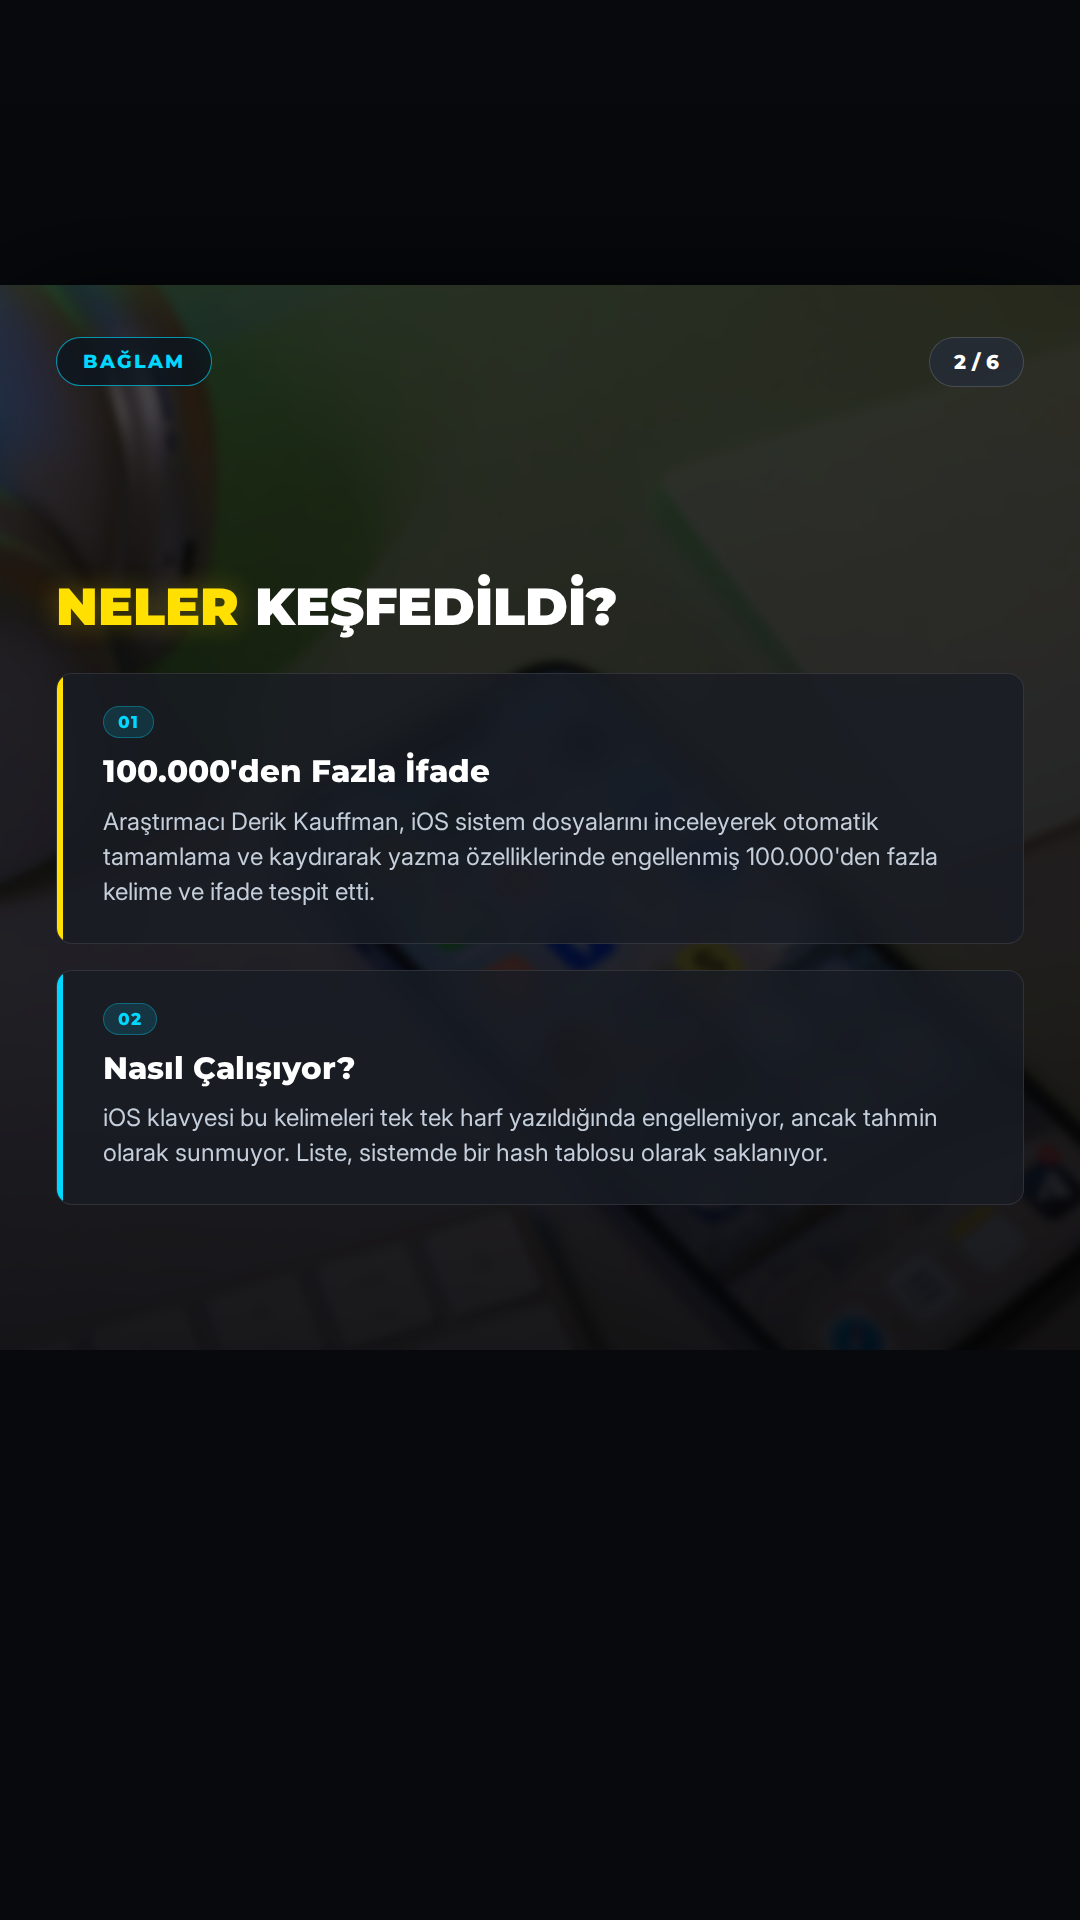
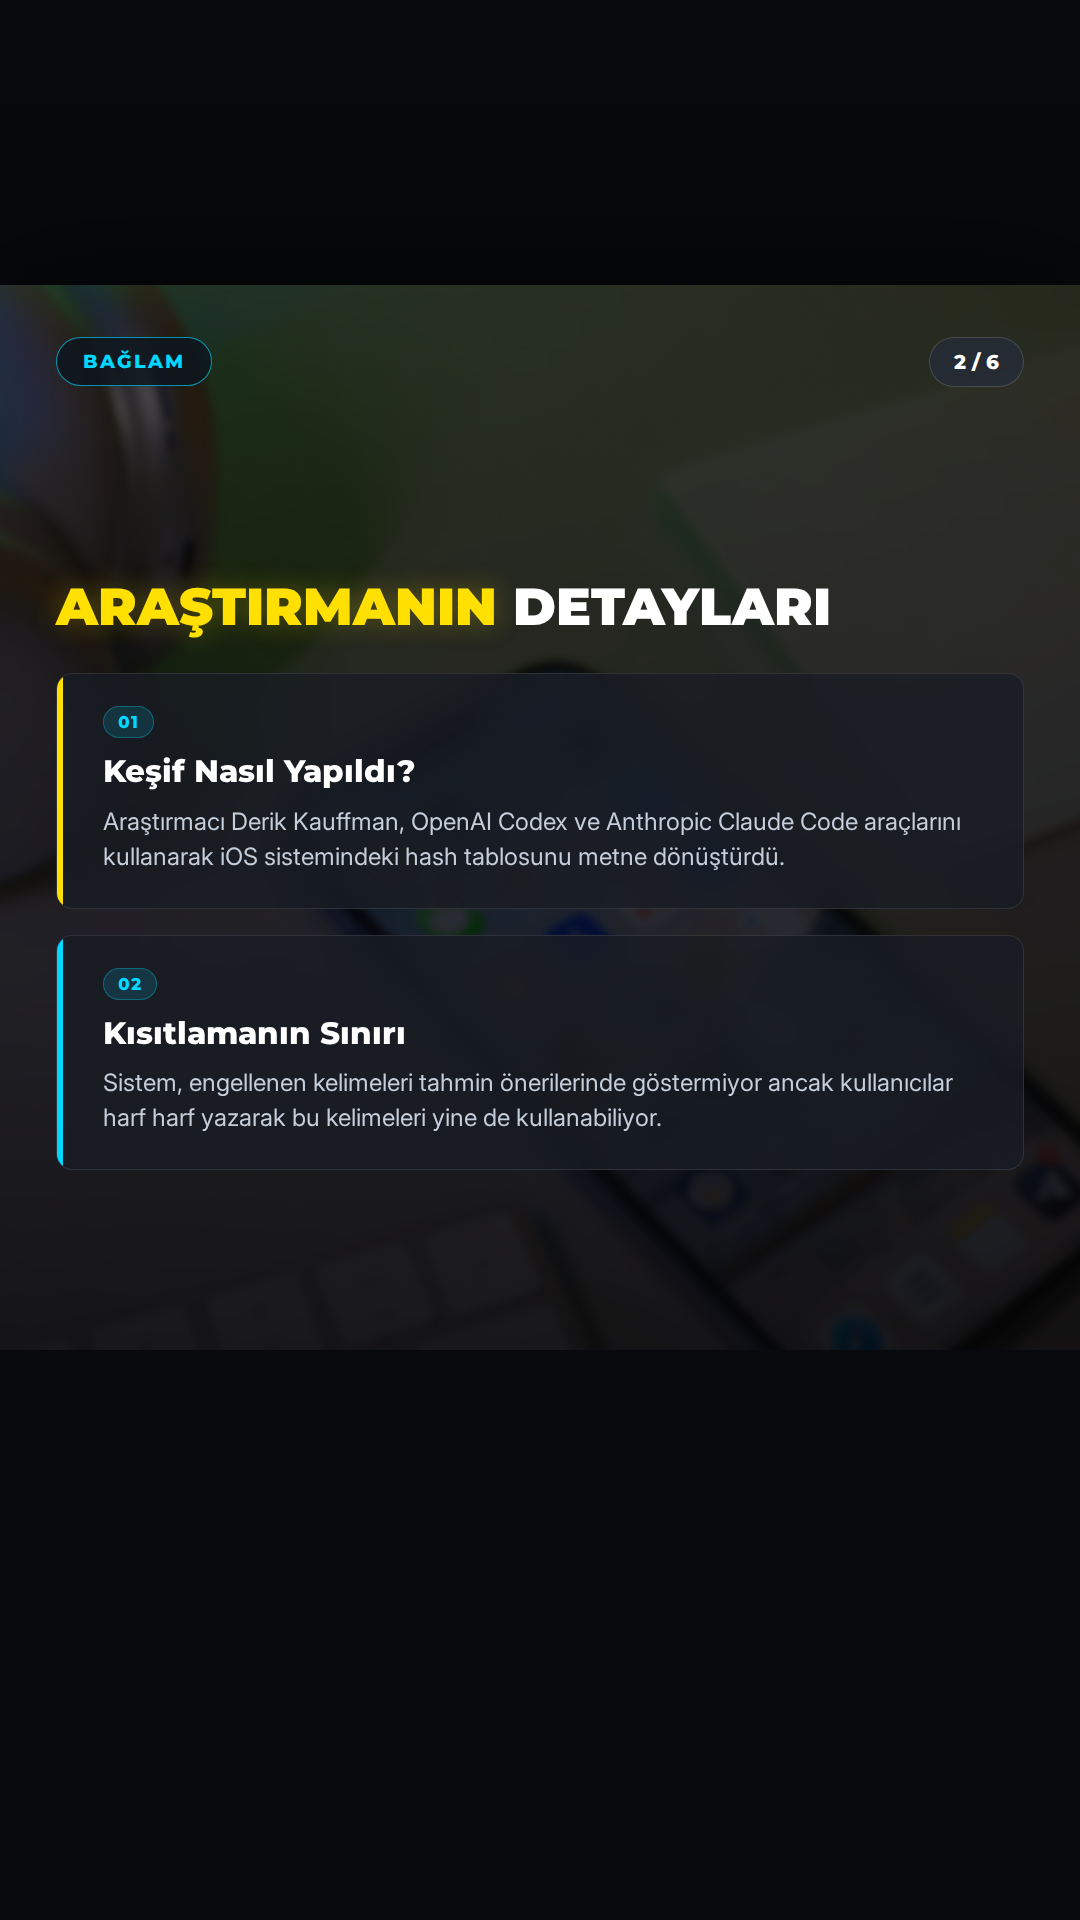
🤖 post: 2026-11-06 12:00 – Apple has a secret list of banned autocomplete phrases inclu

diff --git a/output/2026-11-06/02-1200-apple-has-a-secret-list-of-banned-autocomplete-p/verification.md b/output/2026-11-06/02-1200-apple-has-a-secret-list-of-banned-autocomplete-p/verification.md
@@ -3,60 +3,60 @@
 **Haber:** Apple has a secret list of banned autocomplete phrases including ‘dictator Trump’ and ‘covid is a hoax’
 **Canonical URL:** https://www.theverge.com/tech/1028663/apple-ios-keyboard-blocked-words-autocomplete
 **Kaynaklar:** The Verge, Wired, TechCrunch, Engadget
-**Kontrol zamanı:** 2026-11-06T18:13:46+03:00
+**Kontrol zamanı:** 2026-11-06T18:23:06+03:00
 **Sonuç:** ✅ YAYINLANABİLİR
 
 ---
 
 ## İddia Bazlı Sonuçlar
 
-### 1. Araştırmacı Derik Kauffman, iOS'te otomatik tamamlama ve kaydırarak yazma özelliklerinde engellenmiş 100.000'den fazla kelime ve ifade buldu.
+### 1. Araştırmacı Derik Kauffman, iOS'ta otomatik tamamlama ve kaydırarak yazma özelliklerinde engellenmiş 100.000'den fazla kelime ve ifade buldu.
 - **Karar:** ✅ `supported`
 - **Kanıtlar:**
   - [https://www.theverge.com/tech/1028663/apple-ios-keyboard-blocked-words-autocomplete](https://www.theverge.com/tech/1028663/apple-ios-keyboard-blocked-words-autocomplete)
     > A researcher found over 100,000 words and phrases in “every major language” that are blocked from autocomplete and swipe-type in iOS, Reuters reports. The researcher, Derik Kauffman
 
-### 2. iOS klavyesi, engellenen kelimeleri tek tek harf yazıldığında engellememekte ancak tahmin olarak sunmamaktadır.
+### 2. iOS klavyesi, engellenen kelimeleri tek tek harf yazarak yazmaya izin verirken, tahmin metni önerilerinde göstermiyor.
 - **Karar:** ✅ `supported`
 - **Kanıtlar:**
   - [https://www.theverge.com/tech/1028663/apple-ios-keyboard-blocked-words-autocomplete](https://www.theverge.com/tech/1028663/apple-ios-keyboard-blocked-words-autocomplete)
     > The researcher, Derik Kauffman, says you can still type the words on the blocklist one letter at a time. But they won’t pop up as predictive text suggestions
 
-### 3. iOS klavyesinin engellediği ifadeler arasında 'dictator Trump', 'covid is a hoax', 'illegal immigrant', 'sleepy Joe' ve 'left wing conspiracy' gibi siyasi içerikli ifadeler yer almaktadır.
+### 3. iOS klavyesinin engellediği ifadeler arasında 'dictator Trump', 'covid is a hoax', 'illegal immigrant', 'sleepy Joe' ve 'left wing conspiracy' gibi siyasi içerikli ifadeler yer alıyor.
 - **Karar:** ✅ `supported`
 - **Kanıtlar:**
   - [https://www.theverge.com/tech/1028663/apple-ios-keyboard-blocked-words-autocomplete](https://www.theverge.com/tech/1028663/apple-ios-keyboard-blocked-words-autocomplete)
     > But it also contains political phrases like “illegal immigrant,” “dictator Trump,” “sleepy Joe,” “covid was a hoax,” and “left wing conspiracy”
 
-### 4. Derik Kauffman, engellenen kelime listesini OpenAI'ın Codex ve Anthropic'in Claude Code araçlarını kullanarak iOS sistem dosyaları içerisinden çıkardı.
+### 4. Derik Kauffman, engellenen kelime listesini ve farklı dillere ait alt listeleri internette yayınladı.
+- **Karar:** ✅ `supported`
+- **Kanıtlar:**
+  - [https://www.theverge.com/tech/1028663/apple-ios-keyboard-blocked-words-autocomplete](https://www.theverge.com/tech/1028663/apple-ios-keyboard-blocked-words-autocomplete)
+    > Kauffman posted the full list online, including the individual lists for different languages.
+
+### 5. Derik Kauffman, engellenen kelime listesini bulmak için OpenAI'ın Codex ve Anthropic'in Claude Code araçlarını kullandı.
 - **Karar:** ✅ `supported`
 - **Kanıtlar:**
   - [https://www.theverge.com/tech/1028663/apple-ios-keyboard-blocked-words-autocomplete](https://www.theverge.com/tech/1028663/apple-ios-keyboard-blocked-words-autocomplete)
     > According to Reuters, Kauffman used OpenAI’s Codex and Anthropic’s Claude Code to help find the list “deep in the bowels” of iOS.
 
-### 5. Engellenen kelime listesi iOS içerisinde bir hash tablosu olarak saklanmaktadır.
+### 6. Kauffman, engellenen kelime listesinin iOS içerisinde bir hash tablosu olarak saklandığını ve bunu metne dönüştürdüğünü belirtti.
 - **Karar:** ✅ `supported`
 - **Kanıtlar:**
   - [https://www.theverge.com/tech/1028663/apple-ios-keyboard-blocked-words-autocomplete](https://www.theverge.com/tech/1028663/apple-ios-keyboard-blocked-words-autocomplete)
     > On his website, Kauffman says the phrase list was stored as a hash table, which he was able to convert back to text.
 
-### 6. Başka bir araştırmacı, Reuters'a verdiği demeçte aynı listeye bağımsız olarak ulaştığını doğruladı.
+### 7. Apple, klavyesinin potansiyel olarak uygunsuz veya saldırgan önerilerden kaçınmak için tasarlandığını ancak kullanıcıların istediklerini yazabildiklerini açıkladı.
+- **Karar:** ✅ `supported`
+- **Kanıtlar:**
+  - [https://www.theverge.com/tech/1028663/apple-ios-keyboard-blocked-words-autocomplete](https://www.theverge.com/tech/1028663/apple-ios-keyboard-blocked-words-autocomplete)
+    > Apple told Reuters that its keyboard is designed to avoid potentially inappropriate or offensive suggestions, but iPhone users can still type in what they want, or override predictive text suggestions.
+
+### 8. Başka bir araştırmacı, Reuters'a verdiği demeçte aynı engellenen kelime listesine bağımsız olarak ulaştığını doğruladı.
 - **Karar:** ✅ `supported`
 - **Kanıtlar:**
   - [https://www.theverge.com/tech/1028663/apple-ios-keyboard-blocked-words-autocomplete](https://www.theverge.com/tech/1028663/apple-ios-keyboard-blocked-words-autocomplete)
     > Another researcher told Reuters they were able to independently obtain the same list.
-
-### 7. Apple, klavyesinin potansiyel olarak uygunsuz veya saldırgan önerilerden kaçınmak için tasarlandığını belirtti.
-- **Karar:** ✅ `supported`
-- **Kanıtlar:**
-  - [https://www.theverge.com/tech/1028663/apple-ios-keyboard-blocked-words-autocomplete](https://www.theverge.com/tech/1028663/apple-ios-keyboard-blocked-words-autocomplete)
-    > Apple told Reuters that its keyboard is designed to avoid potentially inappropriate or offensive suggestions
-
-### 8. iOS klavyesi 'bad girl' ifadesini engellerken 'bad boy' ifadesini engellememektedir.
-- **Karar:** ✅ `supported`
-- **Kanıtlar:**
-  - [https://www.theverge.com/tech/1028663/apple-ios-keyboard-blocked-words-autocomplete](https://www.theverge.com/tech/1028663/apple-ios-keyboard-blocked-words-autocomplete)
-    > Kauffman found some discrepancies on the list, too, where one phrase is blocked while its counterpart isn’t, such as blocking “bad girl” but not “bad boy.”
 
 ---
 
@@ -64,14 +64,14 @@
 
 | İddia | 1. Tur | 2. Tur | Nihai |
 |-------|--------|--------|-------|
-| Araştırmacı Derik Kauffman, iOS'te otomatik tamamlama ve kay | supported | supported | supported |
-| iOS klavyesi, engellenen kelimeleri tek tek harf yazıldığınd | supported | supported | supported |
+| Araştırmacı Derik Kauffman, iOS'ta otomatik tamamlama ve kay | supported | supported | supported |
+| iOS klavyesi, engellenen kelimeleri tek tek harf yazarak yaz | supported | supported | supported |
 | iOS klavyesinin engellediği ifadeler arasında 'dictator Trum | supported | supported | supported |
-| Derik Kauffman, engellenen kelime listesini OpenAI'ın Codex  | supported | supported | supported |
-| Engellenen kelime listesi iOS içerisinde bir hash tablosu ol | supported | supported | supported |
-| Başka bir araştırmacı, Reuters'a verdiği demeçte aynı listey | supported | supported | supported |
+| Derik Kauffman, engellenen kelime listesini ve farklı diller | supported | supported | supported |
+| Derik Kauffman, engellenen kelime listesini bulmak için Open | supported | supported | supported |
+| Kauffman, engellenen kelime listesinin iOS içerisinde bir ha | supported | supported | supported |
 | Apple, klavyesinin potansiyel olarak uygunsuz veya saldırgan | supported | supported | supported |
-| iOS klavyesi 'bad girl' ifadesini engellerken 'bad boy' ifad | supported | supported | supported |
+| Başka bir araştırmacı, Reuters'a verdiği demeçte aynı engell | supported | supported | supported |
 
 ## Kaynak Metinleri
 

diff --git a/output/2026-11-06/02-1200-apple-has-a-secret-list-of-banned-autocomplete-p/captions.md b/output/2026-11-06/02-1200-apple-has-a-secret-list-of-banned-autocomplete-p/captions.md
@@ -2,37 +2,37 @@
 
 ## INSTAGRAM
 
-iOS klavyenizde bazı kelimeleri yazarken tahminlerde çıkmadığını hiç fark ettiniz mi? 📱 Apple'ın klavye tahmin mekanizmasında 100.000'den fazla kelime ve ifadenin gizlice engellendiği ortaya çıktı!
+iOS klavyenizde bazı kelimelerin neden otomatik tamamlanmadığını hiç merak ettiniz mi? 📱
 
-Araştırmacı Derik Kauffman, sistem dosyalarını inceleyerek Apple'ın otomatik tamamlama ve kaydırma özelliklerinde filtrelediği bu devasa listeye ulaştı. Listede siyasi ifadelerden bazı günlük kalıplara kadar pek çok içerik yer alıyor.
+Araştırmacı Derik Kauffman, Apple'ın iOS klavyesinde 100.000'den fazla kelime ve ifadenin otomatik tamamlama sisteminden gizlice engellendiğini ortaya çıkardı. Bu liste, siyasi ifadelerden tartışmalı terimlere kadar geniş bir yelpazeyi kapsıyor.
 
-İşin ilginç yanı, sistemin bazı ifadelerde tutarsız olması. Örneğin, 'bad girl' engellenirken 'bad boy' önerilebiliyor. Apple ise bu durumun uygunsuz içerikleri engellemek için tasarlandığını belirtiyor.
+Sistem, bu kelimeleri tamamen yasaklamıyor; yani harf harf yazarak kullanabiliyorsunuz. Ancak tahmin algoritmaları, bu ifadeleri 'uygunsuz' bularak öneri listesinden çıkarıyor.
 
-Sizce klavye tahminlerinde bu tarz bir filtreleme gerekli mi, yoksa ifade özgürlüğünü kısıtlıyor mu? Yorumlarda buluşalım.
+Bu durum, yazılımın tarafsızlığı ve şeffaflığı konusunda yeni bir tartışma başlattı. Sizce klavye tahminleri kullanıcıyı yönlendirmeli mi, yoksa tamamen tarafsız mı kalmalı?
 
 Kaynak: The Verge, Wired
 
-#Apple #iOS #Gizlilik #TeknolojiHaberleri #Güvenlik #iPhone #DijitalOkuryazarlık #Privacy #TechNews #AppleKeyboard
+#Apple #iOS #Teknoloji #Gizlilik #Güvenlik #Yazılım #iPhone #TechNews #Privacy #CyberSecurity #TeknoPusula
 
 ## TIKTOK
 
-iPhone klavyenizde bazı kelimeler neden çıkmıyor? 📱 Apple'ın gizli engellenenler listesi ortaya çıktı! 100.000'den fazla kelime ve ifade tahminlerden çıkarılmış. Siyasi içeriklerden günlük ifadelere kadar geniş bir liste var. Sizce bu bir güvenlik önlemi mi yoksa sansür mü? Yorumlara yazın! Kaynak: The Verge, Wired
+iPhone klavyenizde bazı kelimeler neden çıkmıyor? 🧐 Apple'ın otomatik tamamlama sisteminde 100.000'den fazla kelimenin gizlice engellendiği ortaya çıktı! Siyasi ifadelerden tartışmalı başlıklara kadar sistem bunları 'uygunsuz' bulup öneri dışı bırakıyor. Yazabiliyorsunuz ama sistem size önermiyor. Sizce bu bir sansür mü yoksa güvenlik önlemi mi? Yorumlarda buluşalım! Kaynak: The Verge, Wired
 
-#Apple #iOS #iPhoneHileleri #Teknoloji #Gizlilik #TechTok
+#Apple #iPhone #iOS #Teknoloji #Gizlilik #TechTok
 
 ## X
 
-iPhone klavyenizde bazı kelimelerin tahminlerde çıkmadığını fark ettiniz mi? Apple'ın 100.000'den fazla kelimeyi filtrelediği ortaya çıktı. Siyasi ifadelerden tutarsız filtrelemelere kadar detaylar şaşırtıcı. Sizce bu gerekli mi? Kaynak: The Verge, Wired
+iOS klavyesinde 100.000'den fazla kelime gizlice engellenmiş! Apple'ın otomatik tamamlama sistemi, siyasi ve tartışmalı ifadeleri öneri listesinden çıkarıyor. Yazılımın tarafsızlığı tartışma konusu. Sizce klavye tahminleri tarafsız mı olmalı? Kaynak: The Verge, Wired
 
 #Apple #iOS
 
 ## THREADS
 
-iOS Klavyesinde Gizli Filtreler 📱
+iOS Klavyesinde Gizli 'Engelli' Kelimeler ⌨
 
-Apple'ın klavye tahminlerinde 100.000'den fazla kelimeyi engellediği ortaya çıktı. Siyasi ifadelerden günlük kalıplara kadar uzanan bu liste, sistemde bir hash tablosu olarak saklanıyor.
+Apple'ın otomatik tamamlama sisteminde 100.000'den fazla kelimenin gizlice kısıtlandığı ortaya çıktı. Sistem, siyasi ifadeler dahil birçok kelimeyi tahmin önerilerinde göstermiyor.
 
-Sistemin 'bad girl'ü engelleyip 'bad boy'u serbest bırakması gibi tutarsızlıklar ise tartışma konusu. Sizce bu bir güvenlik önlemi mi, yoksa ifade özgürlüğüne müdahale mi? 💭
+Bu durum, yazılımın tarafsızlığı konusunda soru işaretleri yaratıyor. Sizce klavye tahminleri kullanıcıyı yönlendirmeli mi, yoksa tamamen tarafsız mı kalmalı? 💭
 
 Kaynak: The Verge, Wired
 
@@ -40,23 +40,23 @@ Kaynak: The Verge, Wired
 
 ## LINKEDIN
 
-Teknoloji dünyasında veri gizliliği ve içerik yönetimi tartışmaları yeni bir boyut kazandı. Yapılan araştırmalar, Apple'ın iOS klavye tahmin mekanizmasında 100.000'den fazla kelime ve ifadeyi filtrelediğini ortaya koyuyor.
+Yazılım etiği ve kullanıcı deneyimi arasındaki ince çizgi: Apple'ın iOS klavye algoritması üzerine yeni bir tartışma.
 
-Sistem dosyaları üzerinde yapılan incelemeler, bu filtrelemenin sadece uygunsuz içerikleri değil, belirli siyasi ifadeleri de kapsadığını gösteriyor. Özellikle 'bad girl' ve 'bad boy' örneklerinde olduğu gibi, filtreleme mantığındaki tutarsızlıklar, algoritmik tarafsızlık konusunu tekrar gündeme taşıyor.
+Araştırmacı Derik Kauffman tarafından yapılan analiz, iOS klavyesinde 100.000'den fazla kelime ve ifadenin otomatik tamamlama sisteminden gizlice kısıtlandığını ortaya koydu. 'Uygunsuz' veya 'saldırgan' içeriklerden kaçınmak amacıyla uygulanan bu filtreleme, siyasi ifadeleri de kapsıyor.
 
-Apple, bu mekanizmanın kullanıcıyı saldırgan önerilerden korumak için tasarlandığını belirtse de, bu durum 'algoritmik sansür' tartışmalarını beraberinde getiriyor. Sizce teknoloji şirketleri, kullanıcı deneyimi ile ifade özgürlüğü arasındaki dengeyi nasıl kurmalı?
+Bu durum, teknoloji şirketlerinin algoritmik tarafsızlık ve şeffaflık sorumluluklarını bir kez daha gündeme getiriyor. Kullanıcı deneyimini korumak ile bilgi akışını yönetmek arasındaki denge nasıl kurulmalı?
 
 Kaynak: The Verge, Wired
 
-#Apple #VeriGizliliği #Algoritma #Teknoloji #DijitalEtik
+#Teknoloji #Yazılım #Apple #Algoritma #DijitalEtik
 
 ## FACEBOOK
 
-iPhone klavyenizde bazı kelimelerin tahminlerde çıkmadığını hiç fark ettiniz mi? Apple'ın klavye tahmin mekanizmasında 100.000'den fazla kelime ve ifadenin gizlice engellendiği ortaya çıktı!
+iPhone kullanıcılarını şaşırtan bir detay ortaya çıktı! 📱
 
-Araştırmacı Derik Kauffman, sistem dosyalarını inceleyerek Apple'ın otomatik tamamlama özelliklerinde filtrelediği bu devasa listeye ulaştı. Listede siyasi ifadelerden bazı günlük kalıplara kadar pek çok içerik yer alıyor.
+Apple'ın iOS klavyesinde 100.000'den fazla kelimenin otomatik tamamlama sisteminden gizlice engellendiği keşfedildi. Siyasi ifadelerden tartışmalı terimlere kadar geniş bir liste, sistem tarafından 'uygunsuz' bulunarak öneri dışı bırakılıyor.
 
-İşin ilginç yanı, sistemin bazı ifadelerde tutarsız olması. Apple ise bu durumun uygunsuz içerikleri engellemek için tasarlandığını belirtiyor. Sizce klavye tahminlerinde bu tarz bir filtreleme gerekli mi, yoksa ifade özgürlüğünü kısıtlıyor mu? 
+Kullanıcılar bu kelimeleri yazmakta özgür olsa da, sistemin bu kelimeleri tahmin etmemesi şeffaflık tartışmalarını beraberinde getirdi. Sizce klavye tahminleri kullanıcıyı yönlendirmeli mi, yoksa tamamen tarafsız mı kalmalı?
 
 Kaynak: The Verge, Wired
 
